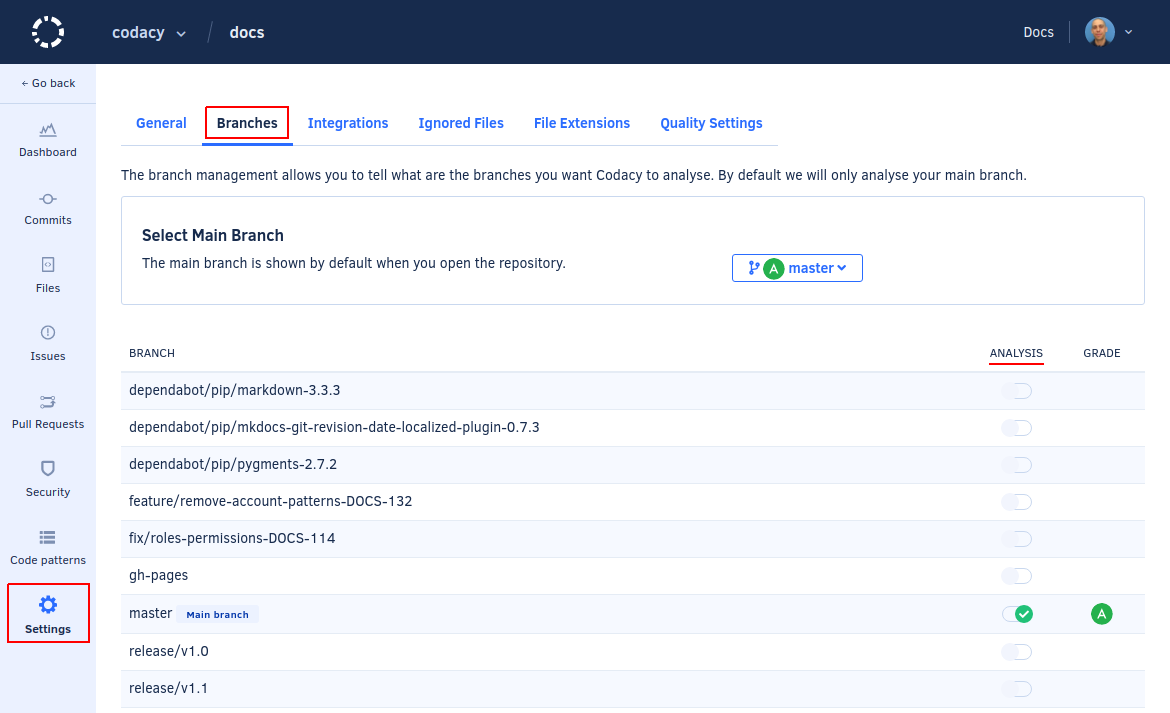
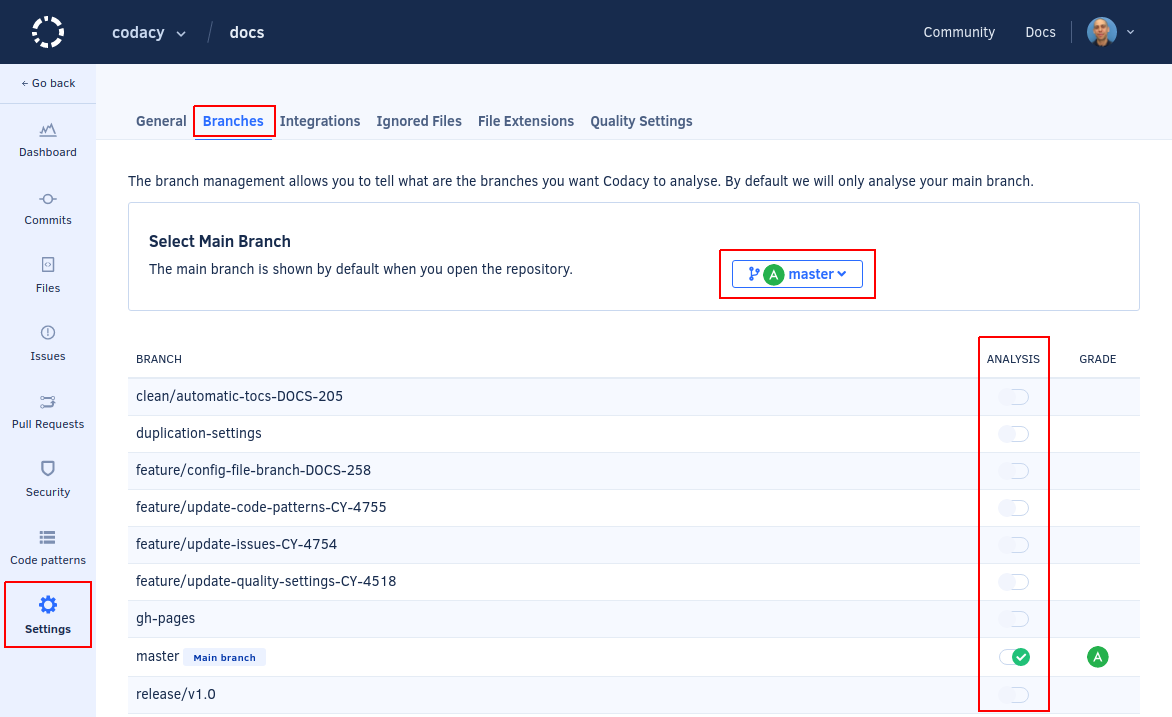
feature: Update Managing branches DOCS-169 (#768)
* clean: Update screenshot for Managing branches

* feature: Mention stopping analysis on branches inactive for 2 weeks

* edit: Mention exceptions to inactive branches

diff --git a/docs/repositories-configure/managing-branches.md b/docs/repositories-configure/managing-branches.md
@@ -6,6 +6,14 @@ To change the main branch of your repository or enable analysis on other branche
 
 ![Managing branches](images/managing-branches.png)
 
-## Analyzing pull request branches
+Codacy manages pull request branches and inactive branches as follows:
 
-When you create new pull requests Codacy automatically triggers analysis on the corresponding branches to analyze the pull requests **as long as the target branch of the pull request is enabled**.
+-   **Pull request branches**
+
+    Codacy automatically analyzes branches corresponding to new pull requests, **as long as the target branches of the pull requests are enabled**.
+
+    Codacy stops analyzing these branches when the pull requests are merged or closed.
+
+-   **Inactive branches**
+
+    Codacy automatically disables analysis for branches that don't have any commits for more than 2 weeks, except for the main branch and pull request branches that are analyzed automatically.
